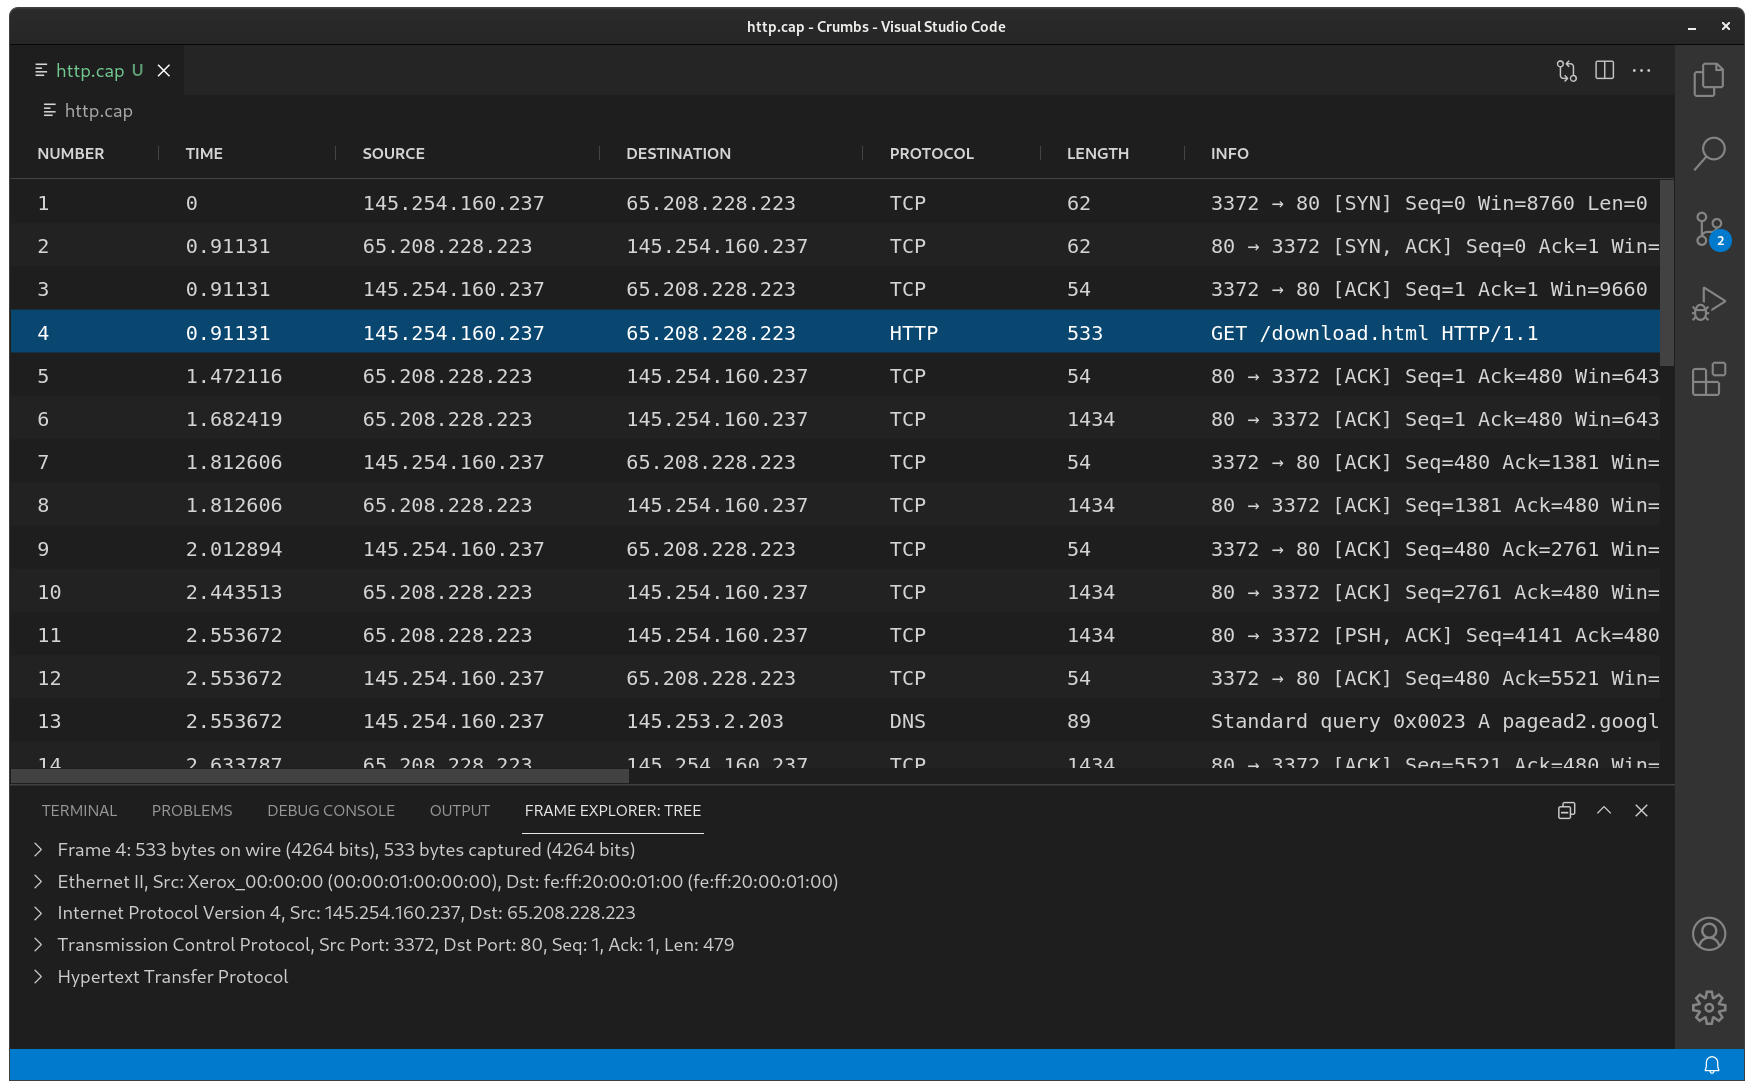
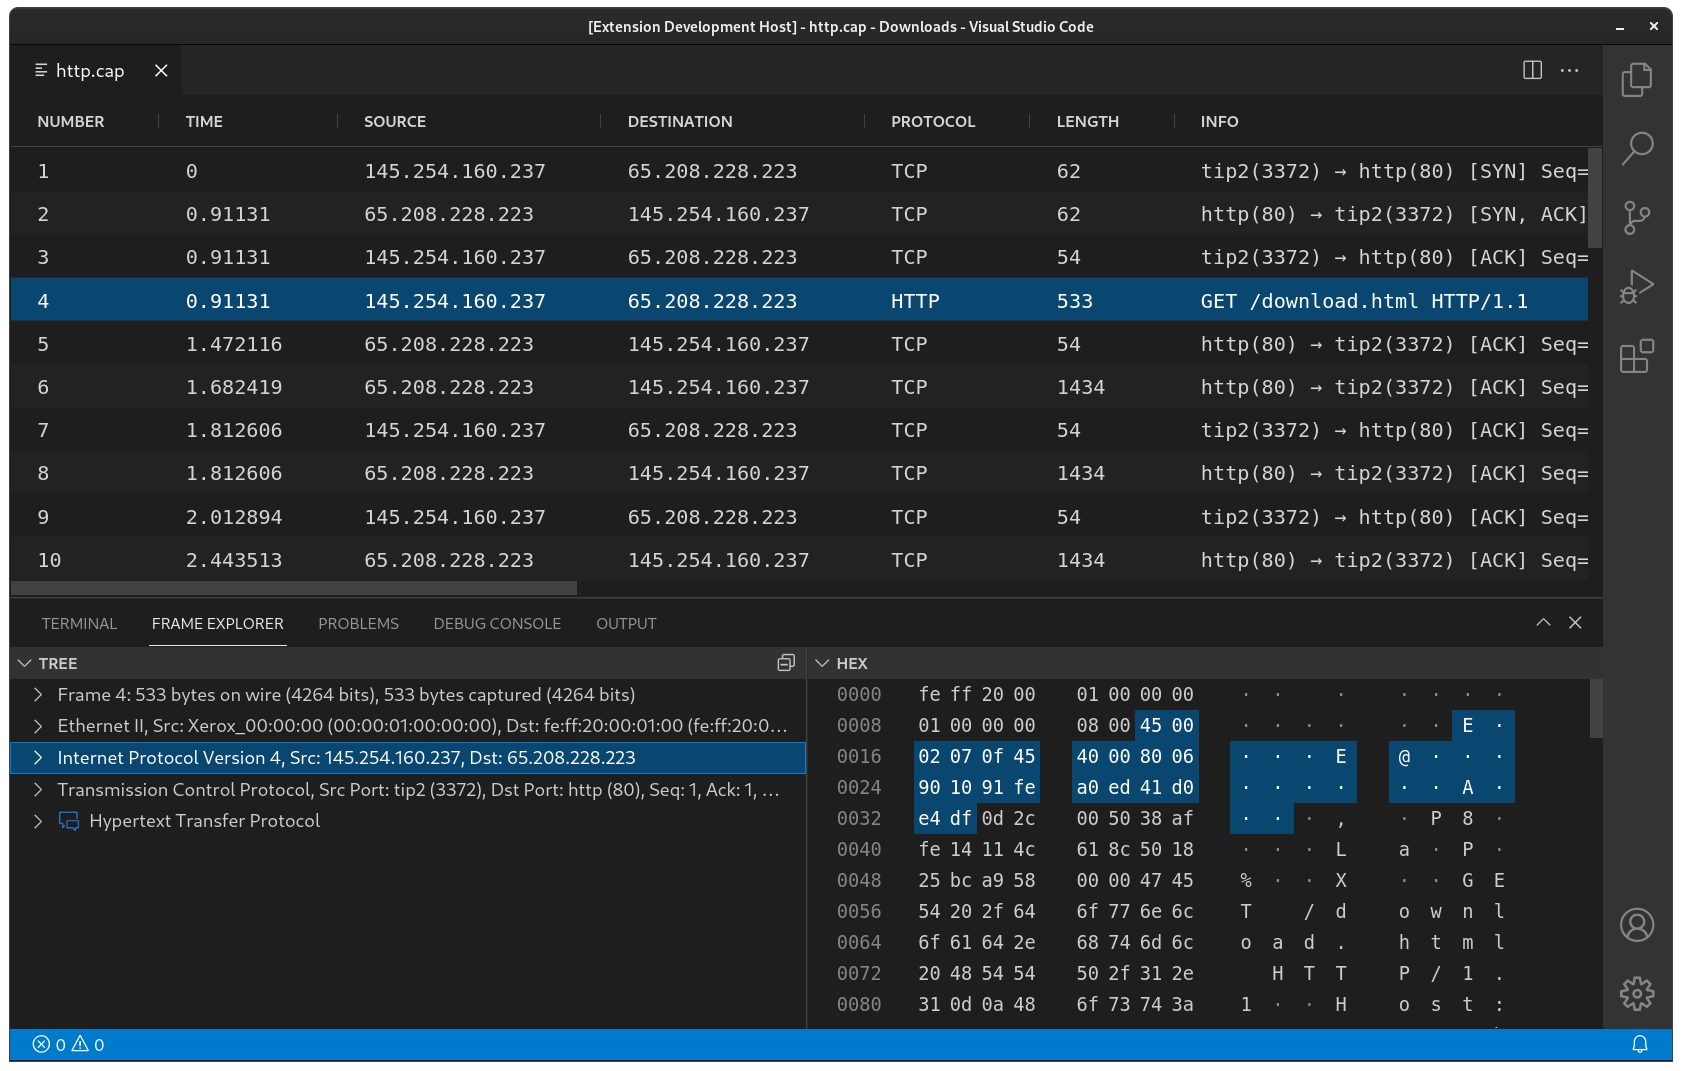
Updated the changelog and demo image.

diff --git a/CHANGELOG.md b/CHANGELOG.md
@@ -1,7 +1,10 @@
 # Change Log
 
 All notable changes to Crumbs will be documented here.
-## [0.1.4] - tbd
+## [0.1.5] - tbd
+
+## [0.1.4] - 2021-11-05
+Finally a fully functional Hex View - with selection and settings. Next up will be (FINALLY) the option to set display filters.
 
 ### Added
 - MacOS "Getting Started" instructions. Revived my old Macbook. Works as expected 😁.
